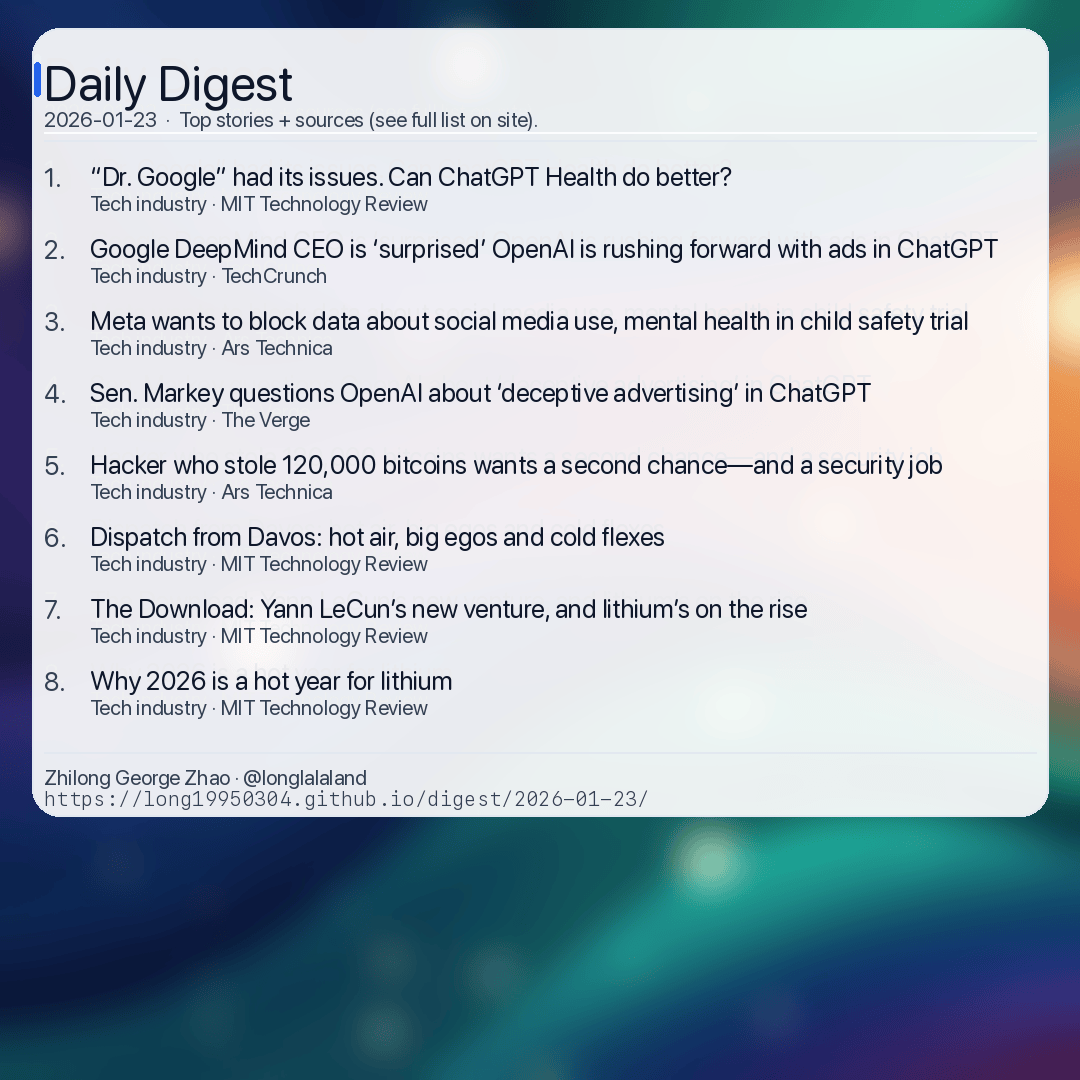
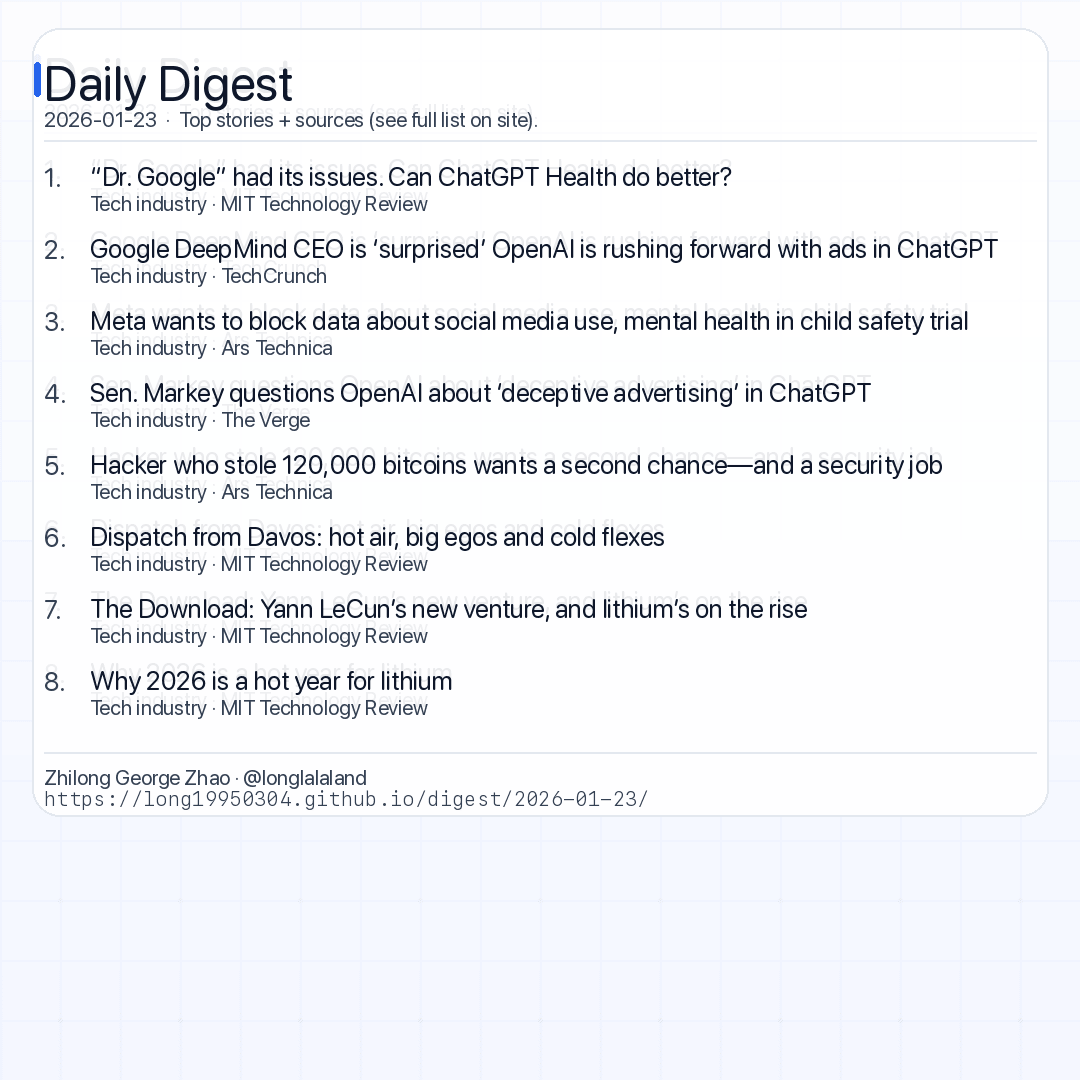
digest: embed cards in pages; improve LinkedIn draft

diff --git a/_digests_zh/2026-01-23.md b/_digests_zh/2026-01-23.md
@@ -7,6 +7,8 @@ digest_date: 2026-01-23
 translation_key: digest-2026-01-23
 ---
 
+![每日简报 - 2026-01-23](/assets/img/digests/2026-01-23-zh.png)
+
 ## 最重要的 10 条
 
 1. [“谷歌医生”有其问题。ChatGPT健康版能否做得更好？](https://www.technologyreview.com/2026/01/22/1131692/dr-google-had-its-issues-can-chatgpt-health-do-better/) — 科技 / 产业 | MIT Technology Review | 2026-01-22 17:38 UTC

diff --git a/_digests/2026-01-23.md b/_digests/2026-01-23.md
@@ -7,6 +7,8 @@ digest_date: 2026-01-23
 translation_key: digest-2026-01-23
 ---
 
+![Daily Digest - 2026-01-23](/assets/img/digests/2026-01-23-en.png)
+
 ## Top 10
 
 1. [“Dr. Google” had its issues. Can ChatGPT Health do better?](https://www.technologyreview.com/2026/01/22/1131692/dr-google-had-its-issues-can-chatgpt-health-do-better/) — Tech industry | MIT Technology Review | 2026-01-22 17:38 UTC
